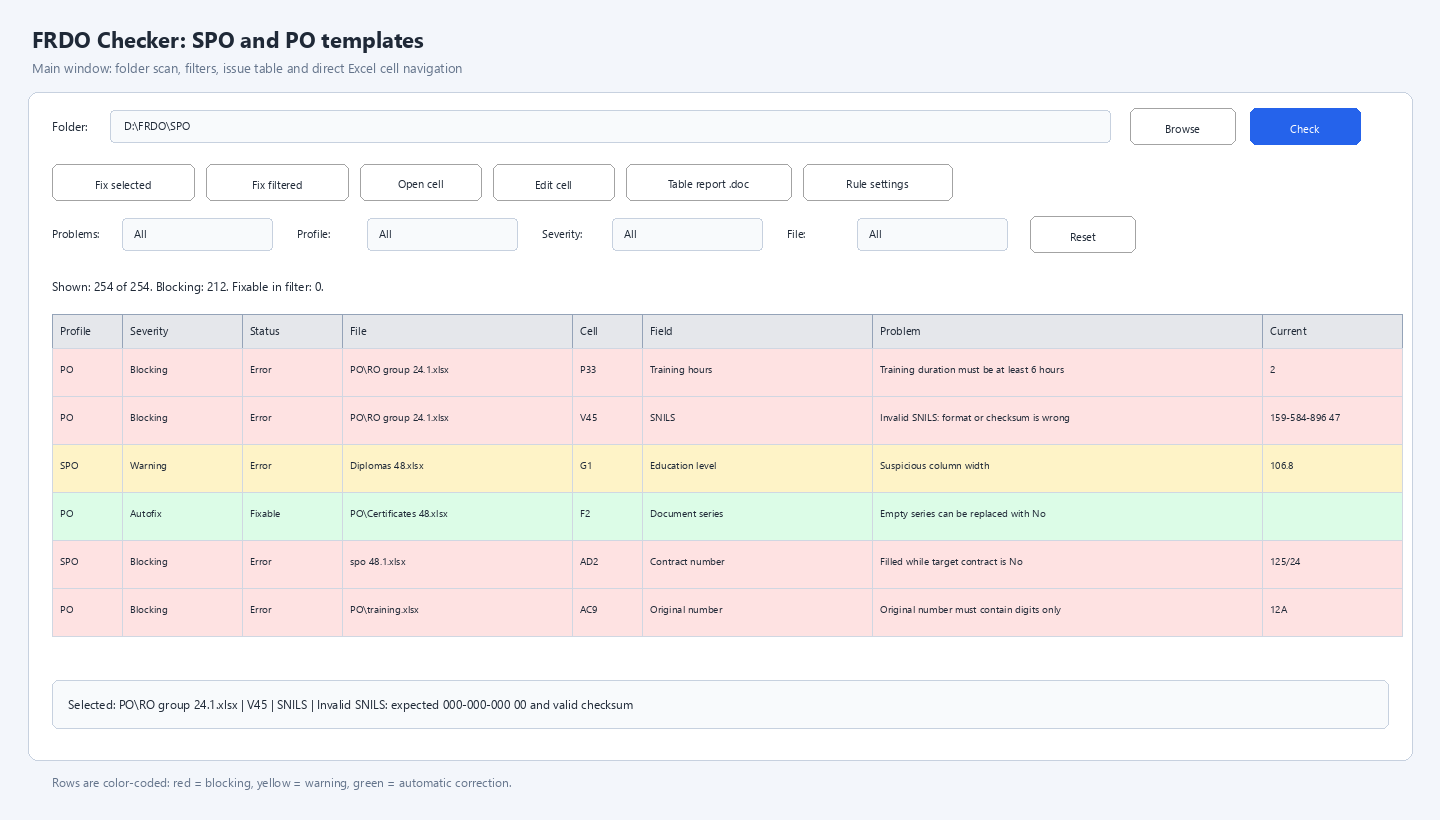
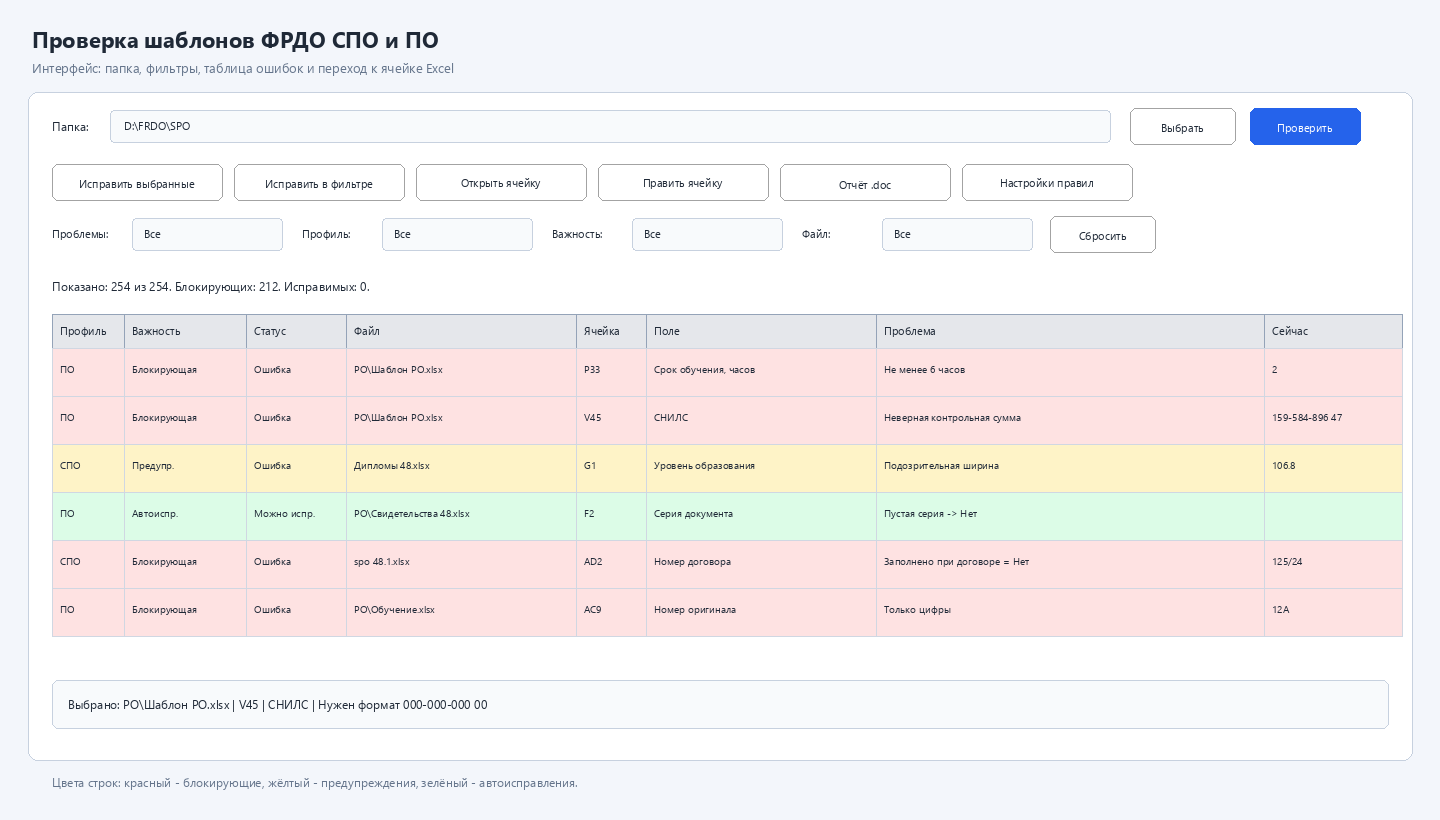
Localize interface screenshots

diff --git a/README.md b/README.md
@@ -38,16 +38,6 @@ dist\FRDO_Checker.exe
 
 При первом запуске выберите папку с шаблонами, нажмите `Проверить`, затем просмотрите найденные проблемы. Автоматические исправления применяются только после подтверждения.
 
-## Screenshots
-
-### Main Interface
-
-![Main interface](docs/images/main-interface.png)
-
-### Fix Confirmation And Report
-
-![Fix confirmation and report](docs/images/fix-report-flow.png)
-
 ## Запуск Из Исходников
 
 ```powershell
@@ -102,6 +92,14 @@ python frdo_spo_checker.py --cli .
 - фильтры над таблицей;
 - таблица с цветовой подсветкой строк;
 - нижняя строка деталей с полным текстом выбранной проблемы.
+
+### Главное окно
+
+![Главное окно FRDO Checker](docs/images/main-interface.png)
+
+### Подтверждение исправлений и отчёт
+
+![Подтверждение исправлений и отчёт](docs/images/fix-report-flow.png)
 
 Двойной клик по строке или кнопка `Открыть ячейку` открывает файл Excel на листе `Шаблон` и выделяет проблемную ячейку.
 
